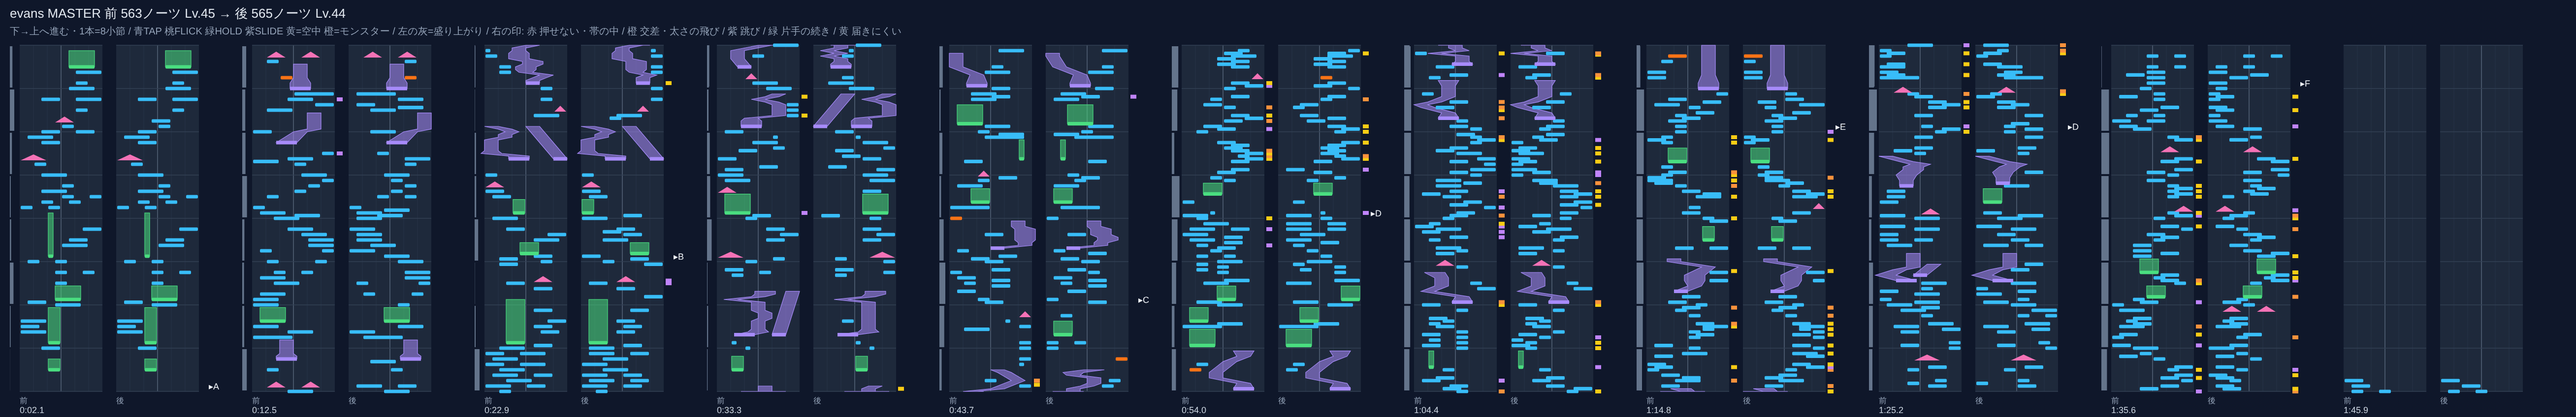
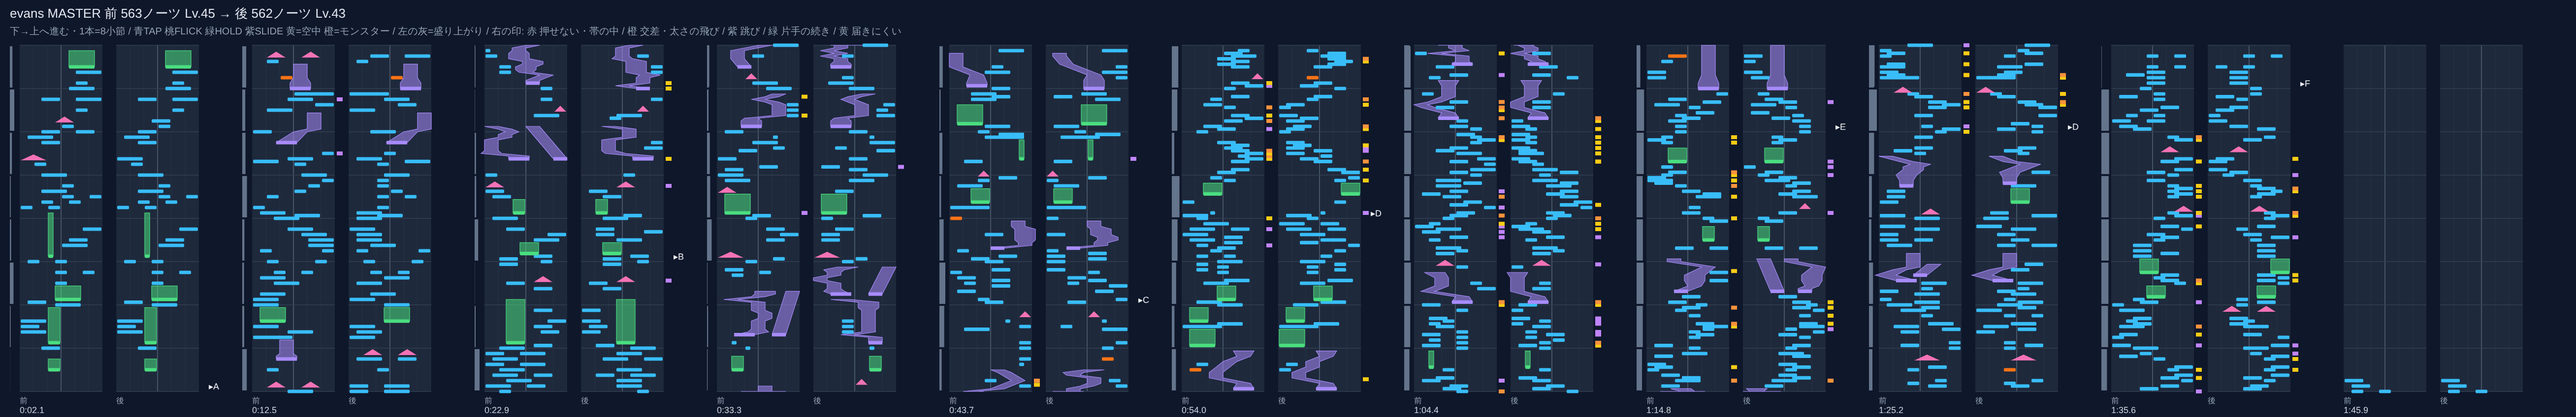
Rev.38: 写しを形ごとずらして置く(フメンの案)・最終の数字と止め絵・道具の決まりの大きさを戻す
- 写しが元と同じ位置に置けないときは、同じ形のまま左右へ1〜2レーンずらして置く
- 資料 REV38.md を最終の7曲の数字にし、フメンの第1版との関係を書く
- tools/mode/CLAUDE.md は上限(4500バイト)を超えていたので元に戻す(本文は CHART_ENGINE.md)

Claude-Session: https://claude.ai/code/session_0113GBaBuRjAHyaohCQ2Jmzu

diff --git a/tools/mode/rhythm-chart-v3-generate.js b/tools/mode/rhythm-chart-v3-generate.js
@@ -1930,6 +1930,13 @@ const buildChart=(difficulty,options={})=>{
           attempts.push({offsets:offsetsNow,patternId:sourceShape?sourceShape.patternId:null,
             mirrored:((sourceShape?sourceShape.mirrored:false)!==(mirrorNow===true))!==flipped,
             fromMemory:false,fromCopy:true,fixedBase:low,copyOf:sourceShape?sourceShape.fromGrid:null});
+          // Rev.38(フメンの案): 元と同じ位置に置けないとき(押さえている指・直前の手とぶつかる)は、別の形を選び直す前に、
+          //   同じ形のまま左右へ1〜2レーンずらして置く。動きは同じなので「覚えた形」のまま押せる
+          const span=Math.max(...offsetsNow);
+          for(const shift of [1,-1,2,-2]){const base=low+shift;if(base<0||base+span>LANES-1)continue;
+            attempts.push({offsets:offsetsNow,patternId:sourceShape?sourceShape.patternId:null,
+              mirrored:((sourceShape?sourceShape.mirrored:false)!==(mirrorNow===true))!==flipped,
+              fromMemory:false,fromCopy:true,fixedBase:base,copyOf:sourceShape?sourceShape.fromGrid:null,copyShift:shift});}
         }
       }
     }
@@ -1972,7 +1979,7 @@ const buildChart=(difficulty,options={})=>{
     // 採った候補の記録(形の記憶・写しの数)。Rev.10 で選び直したときも同じ処理を通す
     const acceptAttempt=attempt=>{
       if(attempt.fromMemory){remembered.count=attempt.count;motifSource=remembered.firstGrid;}
-      else if(attempt.fromCopy){phraseCopyCount.placed++;phraseCopyCount.notes+=length;phraseCopyOf=attempt.copyOf;}
+      else if(attempt.fromCopy){phraseCopyCount.placed++;phraseCopyCount.notes+=length;phraseCopyOf=attempt.copyOf;if(attempt.copyShift)phraseCopyCount.shifted=(phraseCopyCount.shifted||0)+1;}
       else{
         const memo={patternId,offsets:offsets.slice(),mirrored:false,count:1,firstGrid:grids[0],base:best.base};
         if(memoryKey&&!shapeMemory.has(memoryKey))shapeMemory.set(memoryKey,memo);
@@ -3642,7 +3649,7 @@ const buildChart=(difficulty,options={})=>{
 
   if(phraseRhythmCount.bars){
     notice.push(`フレーズの写し: 繰り返しの${phraseRhythmCount.bars}小節で元と同じ位置の音 ${phraseRhythmCount.same}/${phraseRhythmCount.source}`
-      +` / 同じレーンへ写したかたまり ${phraseCopyCount.placed}/${phraseCopyCount.tried}（${phraseCopyCount.notes}ノーツ）`);
+      +` / 同じレーンへ写したかたまり ${phraseCopyCount.placed}/${phraseCopyCount.tried}（${phraseCopyCount.notes}ノーツ）`+(phraseCopyCount.shifted?`・うち形ごとずらして写した ${phraseCopyCount.shifted}`:''));
   }
   // Rev.7: 効いた作法の印をノーツへ残す(学び直し rhythm-chart-learn.js が「良い／変」と言われた区間で数える)。
   //   同時押しの2本目には付けない(1つの出来事を2回数えない)

diff --git a/tools/mode/rhythm-chart-v3-revision.js b/tools/mode/rhythm-chart-v3-revision.js
@@ -142,6 +142,7 @@
 //        ・短い動機の写し(rhythm-chart-motifs.js): 繰り返しの元が付いていない小節で、拾った音の位置が6割以上同じ・音の上下も似ている1〜2小節を
 //          同じ手の動きで置く(2回目は左右反転・高さが違えば形ごと最大2レーンずらす)
 //        ・引き出し R6(盛り上がりに合わせて量を配る)は既定で切(曲の一覧の energySpread を書いた曲だけ。7曲で数字が良くならなかった)
+//        ・写しが元と同じ位置に置けないときは、同じ形のまま左右へ1〜2レーンずらして置く(フメンの案)
 //        サビが見つからない曲は Rev.37 と同じ決め方。配信中の譜面は変えていない
 //   30〜 … 作法の重みを遊んだ感想(譜面メモ)から学び直したリビジョン。rhythm-chart-learn.js --write が
 //        tools/mode/authoring/chart-knowledge-weights.json へ書き足すと、自動でここが最新リビジョンになる。
